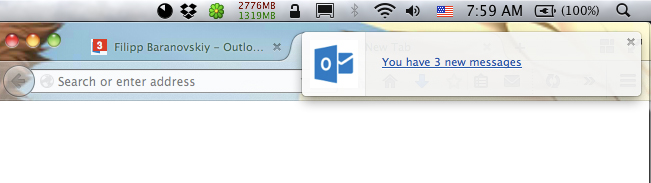
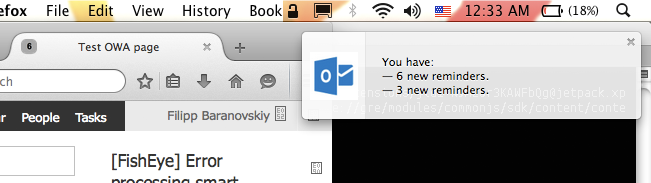
— new unified alerts (bug: if we send 2 immediate alerts will show only the second) — new release will have accumulated changes

diff --git a/data/icon_notifications.js b/data/icon_notifications.js
@@ -226,26 +226,33 @@ function getUnreadMessageCount() {
 }
 
 function generateMessage(count, message){
-	return 'You have ' + count + ' new ' + ((count <= 1) ? message : message + 's') + '.';
+	return count + ' new ' + ((count <= 1) ? message : message + 's') + '.';
 }
 
 function notify() {
-	// var notifyMessage = 'You have:\n';
+	var notifyMessages = ['You have'];
 
 	var newUnreadMessageCount = getNewUnreadMessageCount();
 	var unreadMessageCount = getUnreadMessageCount();
 	setFavicon(unreadMessageCount); // Probably unnecessary since you alter the document title.
-	if (haveNewMessages()) {
-		self.port.emit("notify", generateMessage(newUnreadMessageCount, 'message'));
-	}
 
 	var reminderCount = getReminderCount();
 	var newReminderCount = getNewReminderCount();
-	if (haveNewReminders()){
-		self.port.emit("notify", generateMessage(newReminderCount, 'reminder'));
 
+	if (haveNewMessages()){
+		notifyMessages.push( generateMessage(newUnreadMessageCount, 'message') );
 	}
-
+	if (haveNewReminders()){
+		notifyMessages.push( generateMessage(newReminderCount, 'reminder') );
+	}
+	if (notifyMessages.length > 1) {
+		if (notifyMessages.length == 2) {
+			self.port.emit("notify", notifyMessages.join(' '));
+		} else {
+			notifyMessages[0] += ':';
+			self.port.emit("notify", notifyMessages.join('\n— ') + '\n ');
+		}
+	}
 	addCountToDocumentTitle( {messages: unreadMessageCount, reminders: reminderCount} );
 
 	currentReminderCount = reminderCount;

diff --git a/README.md b/README.md
@@ -9,8 +9,6 @@ How it works: when new email arrives into OWA a system notification about this e
 
 How it really works: for each tab open that has the url in the form "http://anything/owa/anything" or "https://anything/owa/anything" a timer task is set to fire every 1 second by default (configurable). The task counts the number of unread emails (using some css selectors) and if the count is different than the last one it updates the fav icon and document title and also if it's greater it shows a notification with the number of new unread emails. All this is done using [page-mod](https://developer.mozilla.org/en-US/Add-ons/SDK/High-Level_APIs/page-mod) and [notifications](https://developer.mozilla.org/en-US/Add-ons/SDK/High-Level_APIs/notifications) API from Firefox.
 
-I have opportunity to test it on OWA version: 15.0.1044.25
-
-![Screenshot](https://raw.githubusercontent.com/rockfield/owa_firefox_addon/master/owa_pub.png "Screenshot")
+I have opportunity to test it on OWA version's markup: 15.0.1044.25
 
 ![Screenshot](https://raw.githubusercontent.com/rockfield/owa_firefox_addon/master/owa_pub_mac_without_notify_center.png "Screenshot")
